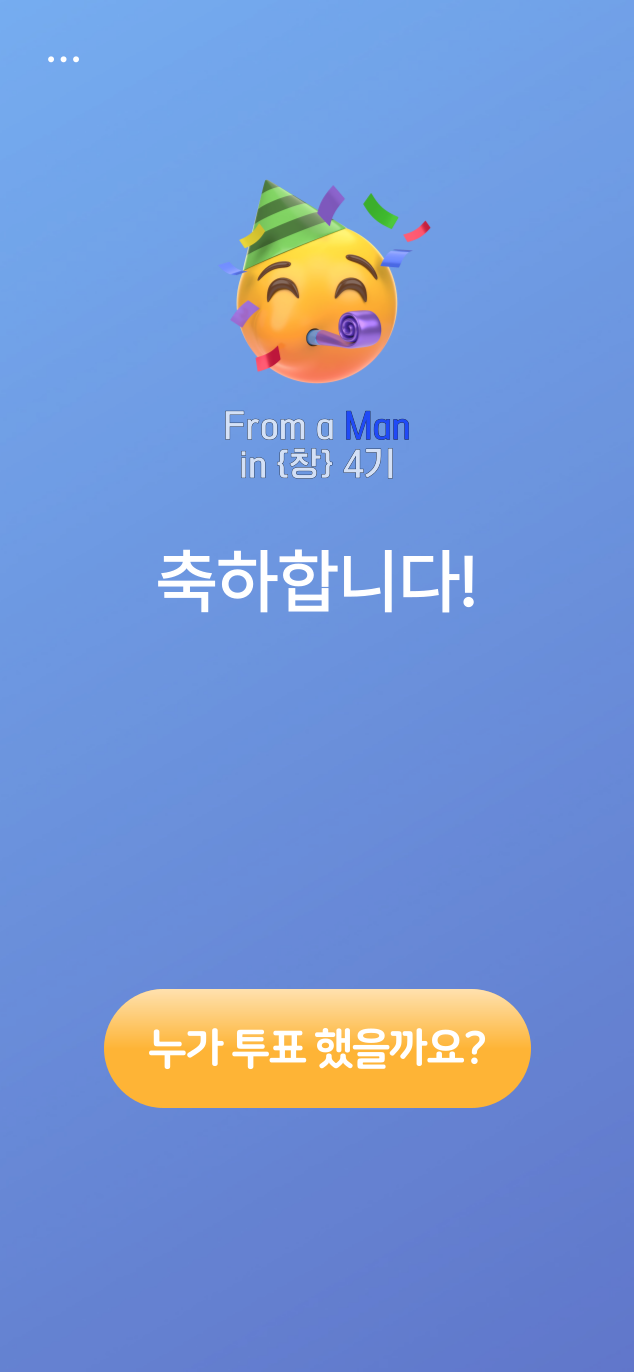
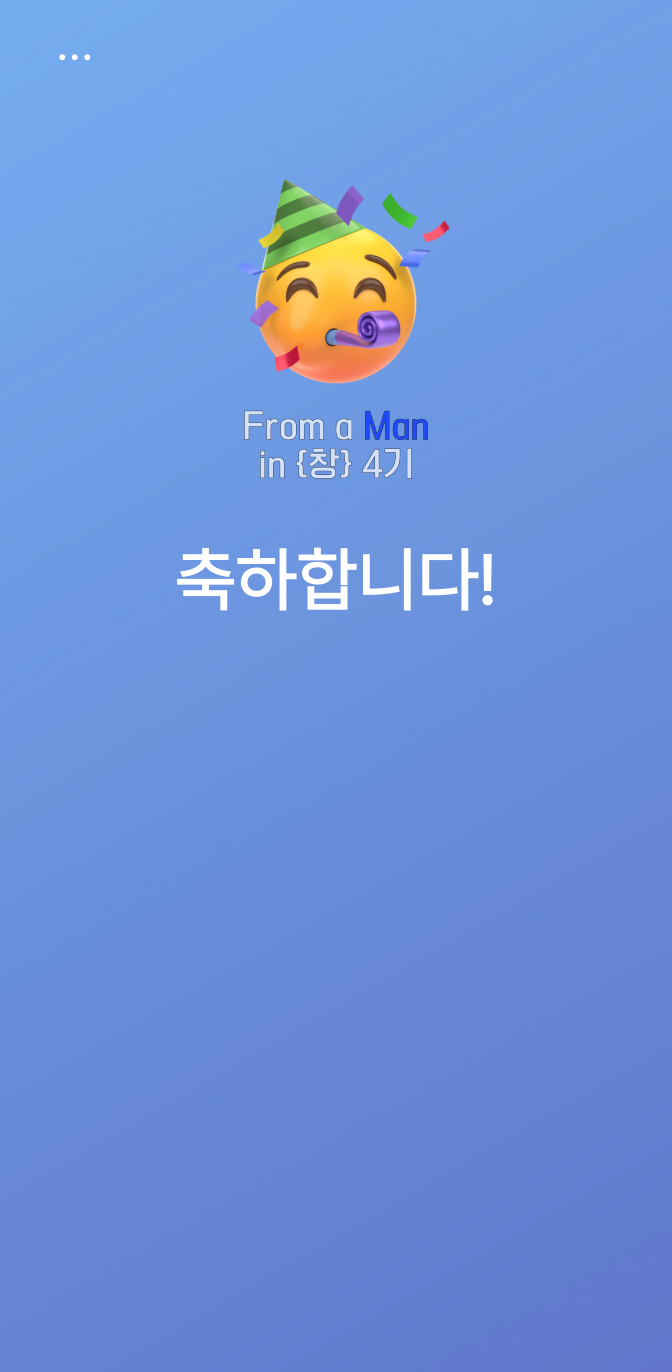
test

diff --git a/coffemen.html b/coffemen.html
@@ -24,17 +24,18 @@
     </head>
     <body style="width: 100%; height: 100%;margin:0">    
             <div id="container" style="position: fixed; overflow: hidden;">
-                <div class="lb-image"><img id="customimg" src="assets/img/003.png" onclick="javascript:clickbtn(); " ></div>
+                <div class="lb-image"><img id="customimg" src="assets/img/003.png" ></div>
                 
                 <div class="jb-text" >
                     <label style="color: white; font-weight: bold;text-align: center;">스파르타 {칭} 맴버 중<br></label>
-                    <label style="color: white; font-weight: bold;font-size: small;"> 함께 커피마시고 싶은 사람 1위에 선정 되었습니다.</label>
+                    <label style="color: white; font-weight: bold;"> 함께 커피마시고 싶은 사람 1위에 선정 되었습니다.</label>
                 </div>
+                <button type="button" class="passbtn" id="passbtn" style=" ">누가 투표 했을까요?</button>
+            <!-- <button type="button" class="passbtn2" id="passbtn" style="position:absolute; top:75%; left:50%; transform: translate(-50%,-50%); display:none;">결제해주세요</button>
+            <button  type="button" class="passbtn3" id="passbtn2" style="position:absolute; top:75%; left:50%; transform: translate(-50%,-50%); display:none;" >나중에 보기</button> -->
             </div>
             
-            <!-- <button type="button" class="passbtn" id="passbtn" style=" ">누가 투표했게요?</button>
-            <button type="button" class="passbtn2" id="passbtn" style="position:absolute; top:75%; left:50%; transform: translate(-50%,-50%); display:none;">결제해주세요</button>
-            <button  type="button" class="passbtn3" id="passbtn2" style="position:absolute; top:75%; left:50%; transform: translate(-50%,-50%); display:none;" >나중에 보기</button> -->
+            
         
                     
                                 

diff --git a/js/btn_event.js b/js/btn_event.js
@@ -1,7 +1,6 @@
 var page = 1;
 $('#passbtn').click(function(){
     console.log('passbtn Clicked');
-    
     if (page == 1){
         page = 2;
         //첫번쨰 페이지 기능
@@ -13,11 +12,12 @@ $('#passbtn').click(function(){
             "display":"block",
             "top": "75%"
         });
-        $('#passbtn2').css({
-            "display":"block",
-            "top": "85%"
-        });
+        // $('#passbtn2').css({
+        //     "display":"block",
+        //     "top": "85%"
+        // });
         $('#passbtn').html('결제해서 보기');
+        $('.jb-text').css('display','none');
         //$('#passbtn1').prop('value',"GGG");
         
     }else if(page == 2){

diff --git a/css/mystyle.css b/css/mystyle.css
@@ -11,6 +11,10 @@
   border-radius: 20px;
   height: 7%;
   width: 70%;
+  position:absolute;
+  top:75%;
+  left:50%;
+  transform: translate(-50%,-50%)
 }
 .passbtn3{
     background-color: gray;
@@ -62,13 +66,14 @@
     margin-left: 70px;
     
     text-align: center; */
-
-    width: 100%;
+    width: 90%;
     position: absolute;
-    top: 60%;
+    top: 55%;
     left: 50%;
     transform:translate(-50%, -50%); 
     text-align: center;
+    padding-left: 20px;
+    padding-right: 20px;
   }
   .lb-wrap img {
     width: 100%;
